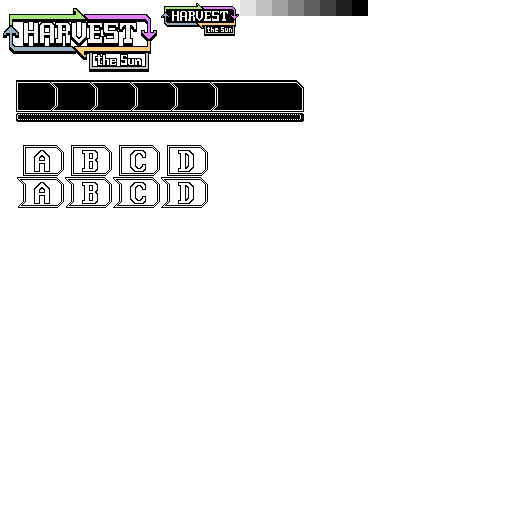
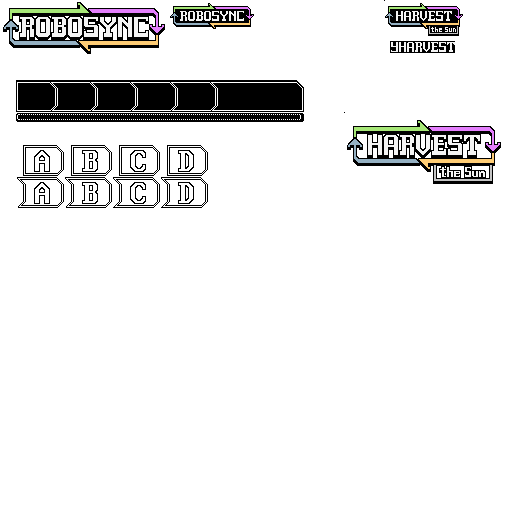
(tenatively) changed name to ROBOSYNC

Changed region(s): [[0.0, 0.0, 0.7188, 0.1562], [0.6562, 0.2188, 1.0, 0.375], [0.75, 0.0, 0.9062, 0.125]]

diff --git a/src/game/menus.py b/src/game/menus.py
@@ -56,6 +56,7 @@ class MainMenuScene(scenes.Scene):
         self._options_list.update_sprites()
 
         self._option_pane_bg = None
+        self._option_pane_border = None
 
         self.cine_seq = cinematics.CinematicFactory.make_cinematic(cinematics.CinematicScenes.MAIN_MENU)
 
@@ -89,8 +90,9 @@ class MainMenuScene(scenes.Scene):
     def update_sprites(self):
         total_size = renderengine.get_instance().get_game_size()
 
+        title_scale = 1.5
         if self._title_element.get_sprite() is None:
-            text_sprite = sprites.ImageSprite(spriteref.ui_sheet().title_img, 0, 0, spriteref.UI_FG_LAYER, scale=1.5)
+            text_sprite = sprites.ImageSprite(spriteref.ui_sheet().title_img, 0, 0, spriteref.UI_FG_LAYER, scale=title_scale)
             self._title_element.set_sprite(text_sprite)
 
         title_w = self._title_element.get_size()[0]
@@ -100,7 +102,7 @@ class MainMenuScene(scenes.Scene):
         self._title_element.set_xy((title_x, title_y))
 
         options_xy = (total_size[0] // 2 - title_w // 4 - self._options_list.get_size()[0] // 2,
-                      title_y + 3 * title_h // 4)
+                      title_y + 48 * title_scale)
         self._options_list.set_xy(options_xy)
 
         if self._option_pane_bg is None:
@@ -108,11 +110,23 @@ class MainMenuScene(scenes.Scene):
             self._option_pane_bg = sprites.ImageSprite(model, options_xy[0], options_xy[1], spriteref.UI_BG_LAYER)
         bg_inset = 4
         options_size = self._options_list.get_size()
-        self._option_pane_bg = self._option_pane_bg.update(new_x=options_xy[0] - bg_inset,
-                                                           new_y=options_xy[1] - bg_inset,
+        options_bg_rect = [
+            options_xy[0] - bg_inset,
+            options_xy[1] - bg_inset,
+            options_size[0] + 2 * bg_inset,
+            options_size[1] + 2 * bg_inset
+        ]
+        self._option_pane_bg = self._option_pane_bg.update(new_x=options_bg_rect[0],
+                                                           new_y=options_bg_rect[1],
                                                            new_color=colors.PERFECT_BLACK,
-                                                           new_raw_size=(options_size[0] + 2 * bg_inset,
-                                                                         options_size[1] + 2 * bg_inset))
+                                                           new_raw_size=(options_bg_rect[2], options_bg_rect[3]))
+
+        if self._option_pane_border is None:
+            self._option_pane_border = sprites.BorderBoxSprite(spriteref.UI_BG_LAYER,
+                                                               rect=options_bg_rect,
+                                                               all_borders=spriteref.overworld_sheet().border_single_line,
+                                                               hollow_center=True,
+                                                               scale=2, color=colors.PERFECT_BLACK, depth=-10)
 
     def all_sprites(self):
         for spr in self._title_element.all_sprites_from_self_and_kids():
@@ -120,6 +134,7 @@ class MainMenuScene(scenes.Scene):
         for spr in self._options_list.all_sprites_from_self_and_kids():
             yield spr
         yield self._option_pane_bg
+        yield self._option_pane_border
         for spr in self.cine_seq.all_sprites():
             yield spr
 

diff --git a/src/game/spriteref.py b/src/game/spriteref.py
@@ -643,9 +643,6 @@ class _UiSheet(spritesheets.SpriteSheet):
         self._character_card_animations = {}    # (boolean first, boolean: last) -> list of ImageModel
         self._character_card_anim_done = None
 
-        self.translucent_squares = []
-        self.translucent_pixels = []
-
     def get_size(self, img_size):
         size = super().get_size(img_size)
         bar_size = _UiSheet.N_PROGRESS_BARS * 6
@@ -654,8 +651,8 @@ class _UiSheet(spritesheets.SpriteSheet):
     def draw_to_atlas(self, atlas, sheet, start_pos=(0, 0)):
         super().draw_to_atlas(atlas, sheet, start_pos=start_pos)
 
-        self.title_img = _img(0, 0, 160, 80, offs=start_pos)
-        self.title_img_small = _img(0, 160, 80, 40, offs=start_pos)
+        self.title_img = _img(0, 0, 168, 56, offs=start_pos)
+        self.title_img_small = _img(0, 168, 88, 32, offs=start_pos)
 
         self.top_panel_bg = _img(16, 80, 288, 32, offs=start_pos)
         self.top_panel_progress_bar_bg = _img(16, 112, 288, 10, offs=start_pos)
@@ -819,6 +816,8 @@ class _OverworldSheet(spritesheets.SpriteSheet):
 
         self.border_double_thin = self._make_borders([24, 72, 24, 24], 5, offs=start_pos)
         self.border_double_thick = self._make_borders([24, 96, 24, 24], 6, offs=start_pos)
+
+        self.border_single_line = self._make_borders([0, 120, 24, 24], 1, offs=start_pos)
 
         # lock icons
         self.lock_icons = [_img(48 + (i % 8) * 24, 72 + (i // 8) * 24, 24, 24, offs=start_pos) for i in range(0, 12)]

diff --git a/configs.py b/configs.py
@@ -1,7 +1,7 @@
 
 import os.path
 
-name_of_game = "Harvest the Sun"
+name_of_game = "ROBOSYNC"
 version = "1.0.0"
 
 

diff --git a/README.md b/README.md
@@ -3,6 +3,8 @@ A platformer about robots.
 
 Here are the five most recent gifs committed:
 
+![116-robosync.gif](gifs/116-robosync.gif?raw=true "116-robosync")
+
 ![115-camera-hide-oob.gif](gifs/115-camera-hide-oob.gif?raw=true "115-camera-hide-oob")
 
 ![114-camera-zones.gif](gifs/114-camera-zones.gif?raw=true "114-camera-zones")
@@ -10,5 +12,3 @@ Here are the five most recent gifs committed:
 ![113-kill-zones.gif](gifs/113-kill-zones.gif?raw=true "113-kill-zones")
 
 ![112-false-blocks-in-editor.gif](gifs/112-false-blocks-in-editor.gif?raw=true "112-false-blocks-in-editor")
-
-![111-false-blocks.gif](gifs/111-false-blocks.gif?raw=true "111-false-blocks")
